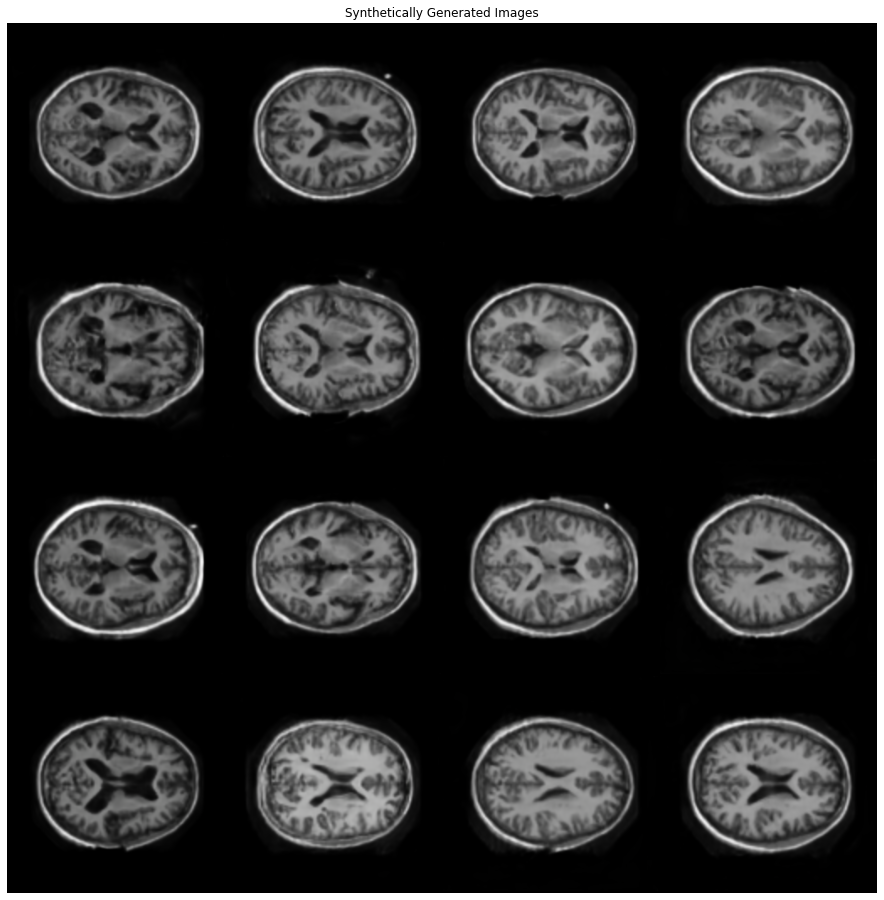
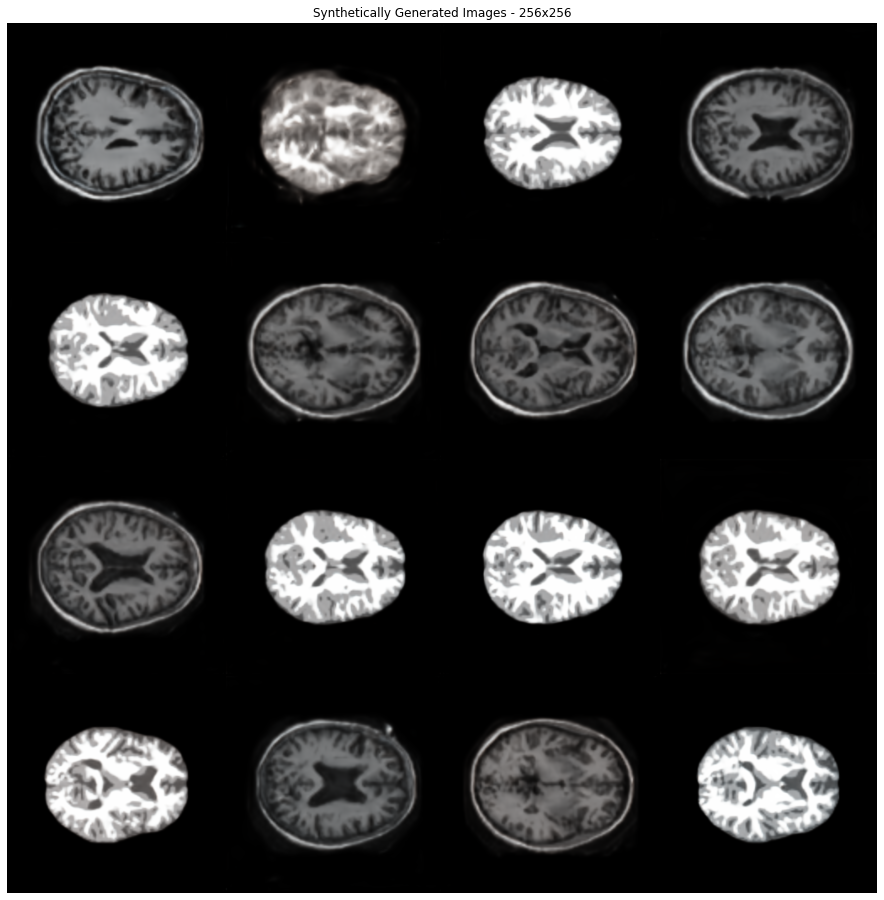
Added experiment for using StyleGAN to supersize images to 512x512. Retrained on full OASIS data to include segmentations (previously was just on the images)

diff --git a/recognition/StyleGAN_OASIS/predict.py b/recognition/StyleGAN_OASIS/predict.py
@@ -14,6 +14,7 @@ import numpy as np
 import torch
 import torchvision.utils as vutils
 from modules import Generator, AlphaScheduler
+from dataset import createDataLoader
 
 '''
 Plot the training losses for both the generator and discriminator models
@@ -29,44 +30,47 @@ def plot_losses(loss_file):
     losses = np.loadtxt(loss_file)
 
     plt.plot(losses[:,4], label="Total Discriminator Loss")    
-    plt.plot(losses[:,3], label="Total Discriminator Loss")
-    plt.plot(losses[:,0], label="Weighted Gradient Penalty")
-    plt.plot(losses[:,1], label="Wasserstein Distance")
-    plt.plot(losses[:,2], label="Gradient Clipping")
-
+    plt.plot(losses[:,3], label="Total Generator Loss")
     plt.xlabel("Batch Iteration")
     plt.ylabel("Loss")
     plt.legend()
     plt.title("GAN Losses of Generator and Discriminiator")
-    
-"""
-TODO: x
-"""
-def plot_generation(gen, n):
-    gen.eval()
-    z = torch.randn(n, gen.z_size)
-    gen_images = gen(z)
-    plt.figure(figsize=(20,20))
-    plt.axis("off")
-    plt.imshow(np.transpose(vutils.make_grid(gen_images[:n], padding=2, normalize=True).cpu(),(1,2,0)))
-    plt.title(f"Depth: {gen.alphaSched.depth}")
     plt.show()
     
+    plt.plot(losses[:,0], label="Weighted Gradient Penalty")
+    plt.plot(losses[:,1], label="Wasserstein Distance")
+    plt.plot(losses[:,2], label="Gradient Clipping")   
+    plt.xlabel("Batch Iteration")
+    plt.ylabel("Loss")
+    plt.legend()
+    plt.title("Decomposition of GAN Losses of Discriminator")
+"""
+Plot n images from synthetically generated images 
+    generator       A training generator class with weights preloaded
+    n               Number of images to dispay
+"""
+def plot_synthetic(generator, n, subtitle):
+    generator.eval()
+    z = torch.randn(n, 256)
+    images = generator(z)
+    plt.figure(figsize=(16,16))
+    plt.axis("off")
+    plt.imshow(np.transpose(vutils.make_grid(images[:n], nrow=int(np.sqrt(n)), padding=2, normalize=True).cpu(),(1,2,0)))
+    plt.title("Synthetically Generated Images - " + subtitle)
+    plt.show()
     
 
-def run():
-    z_size = 256
-    w_size = 256
-    rgb_ch = 3
-    channels = [512, 512,256,128,64,32,16,4]
-    alphaSched = AlphaScheduler([1], [1], 1)
-    alphaSched.depth=6
-    generator = Generator(z_size, w_size, channels, rgb_ch, alphaSched, is_progressive=False)
-    generator.load_state_dict(torch.load("C:\\Temp\\stylegan_depth_6.pth"))
-    plot_generation(generator, 64, )
+"""
+Plot n real images 
+    dataloader      A dataloader with a batch size of at least n
+    n               Number of images to dispay
+"""
+def plot_real(dataloader, n):
+    images = next(iter(dataloader))[0]
+    plt.figure(figsize=(16,16))
+    plt.axis("off")
+    plt.imshow(np.transpose(vutils.make_grid(images[:n], nrow=int(np.sqrt(n)), padding=2, normalize=True).cpu(),(1,2,0)))
+    plt.title("Real Images - 256x256")
+    plt.show()   
     
-    plot_losses(r"C:\Temp\losses_generator.csv", r"C:\Temp\losses_discriminator.csv")
 
-
-
-run()

diff --git a/recognition/StyleGAN_OASIS/test_driver_predict.py b/recognition/StyleGAN_OASIS/test_driver_predict.py
@@ -23,18 +23,24 @@ cfg = {'batch_sizes':[256,128,128,64,16,8,8], 'channels':[512, 512,256,128,64,32
         , 'fade_epochs': np.array([30, 30, 30, 30, 30, 30, 30, 30])
         , 'image_folder': r'C:\Temp\keras_png_slices_data\keras_png_slices_data'
         , 'generator_model_file': 'C:\Temp\stylegan_depth_{0}.pth'
-        , 'losses_file': 'losses.csv'
+        , 'losses_file': 'C:\Temp\losses.csv'
         , 'lr':0.001, 'mapping_lr':1e-5,'lambda':10, 'beta1': 0.0, 'beta2': 0.999, 'z_size':256, 'w_size':256, 'img_size': 256}
     
 
 # The AlphaScheduler is linked to the Generator, so configure, set to depth 6 (256x256) and load the saved model
-alphaSched = AlphaScheduler(cfg['fade_epochs'], cfg['batch_sizes'], 1)
+alphaSched = AlphaScheduler(cfg['fade_epochs'], cfg['batch_sizes'], 1e10)
 alphaSched.depth=6
 generator = Generator(cfg['z_size'], cfg['w_size'], cfg['channels'], cfg['rgb_ch'], alphaSched)
 generator.load_state_dict(torch.load(cfg['generator_model_file'].format(alphaSched.depth)))
 
-# Plot the generated synthetic images
-plot_synthetic(generator, n=16)
+# Plot the generated synthetic images at input size of 256x256
+plot_synthetic(generator, n=16, subtitle='256x256')
+
+alphaSched.depth=7
+generator.load_state_dict(torch.load(cfg['generator_model_file'].format(alphaSched.depth)))
+
+# Plot the generated synthetic images at super size of 512x512
+plot_synthetic(generator, n=4, subtitle='512x512')
 
 # Load and plot some real images
 dataloader = createDataLoader(cfg['image_folder'], 256, 256)

diff --git a/recognition/StyleGAN_OASIS/train.py b/recognition/StyleGAN_OASIS/train.py
@@ -141,7 +141,7 @@ Train a styleGAN on the OASIS brain dataset using a predefined configuration
 """
 def train_stylegan_oasis(is_rangpur=True):
     cfg_win = {'batch_sizes':[256,128,128,64,16,8,8], 'channels':[512, 512,256,128,64,32,16,8,4], 'rgb_ch':3
-            , 'fade_epochs': np.array([30, 30, 30, 30, 30, 30, 30, 30])
+            , 'fade_epochs': np.array([2, 2, 2, 2, 2, 2, 2, 2])
             , 'image_folder': r'C:\Temp\keras_png_slices_data\keras_png_slices_data'
             , 'generator_model_file': 'C:\Temp\stylegan_depth_{0}.pth'
             , 'losses_file': 'losses.csv'
@@ -149,8 +149,8 @@ def train_stylegan_oasis(is_rangpur=True):
     
     cfg_rangpur = {'batch_sizes':[256,128,128,64,16,8,8], 'channels':[512, 512,256,128,64,32,16,8,4], 'rgb_ch':3
             , 'fade_epochs': np.array([30, 30, 30, 30, 30, 30, 30, 30])
-            , 'image_folder': 'data/keras_png_slices_data'
-            , 'generator_model_file': 'C:\Temp\stylegan_depth_{0}.pth'
+            , 'image_folder': '/home/groups/comp3710/OASIS'
+            , 'generator_model_file': 'stylegan_depth_{0}.pth'
             , 'losses_file': 'losses.csv'
             , 'lr':0.001, 'mapping_lr':1e-5, 'lambda':10, 'beta1': 0.0, 'beta2': 0.999, 'z_size':256, 'w_size':256, 'img_size': 256}
 

diff --git a/recognition/StyleGAN_OASIS/test_driver_train.py b/recognition/StyleGAN_OASIS/test_driver_train.py
@@ -1,4 +1,4 @@
-    # -*- coding: utf-8 -*-
+# -*- coding: utf-8 -*
 """
 File: test_driver_train.py
 

diff --git a/recognition/StyleGAN_OASIS/README.md b/recognition/StyleGAN_OASIS/README.md
@@ -1,11 +1,11 @@
 # StyleGAN for the OASIS Brain data set
 
-Pattern recognition using a PyTorch style generative adverserial network (GAN) that is part of the COMP3710 repository. This particular implementation looks to create a generative model of the OASIS brain dataset using a variant of StyleGAN that has a "reasonably clear image".
+Pattern recognition using a PyTorch style generative adverserial network (GAN) that is part of the COMP3710 repository. This particular implementation looks to create a generative model of the OASIS brain dataset using a variant of StyleGAN that has a "reasonably clear image". A further experiment was performed to observe the behavour of StyleGAN generating supersized images.
 
 ## Motivation of synthesis with StyleGAN
 
 A StyleGAN is used for synthesis. By learning the probability distribution to some underlying data (images in this case), it is possible to synthesis new images following the learnt distribution. There are a number of motivating reasons why a StyleGAN would be used:
-- **Image synthesis** As mentioned, images can be generated from the learnt underlying distribution for artistic and entertainment purposes
+- **Image synthesis** As mentioned, images can be generated from the learnt underlying distribution, for artistic and entertainment purposes
 - **Augmentation** When limited data are available for training, data augmentation techniques expand the available training data through image variations such as rotation, shear, and colour perturbations. StyleGAN permits a richer form of augmentation by generating brand new variations rather than limited transforms of existing data
 - **Content creation** Synthesis can be used to generate new content for media, such as gaming, social media, or even movies (background generation for example)
 - **Annonymity** As a result of the synthesis, new samples produced are different from the training data. This permits datasets to be generated that hide the identity of the training data, such as annonymity through face synthesis
@@ -65,13 +65,16 @@ Some example inputs for training the StyleGAN from the OASIS brain dataset are:
 A synthesed image is created by generating a random input z of shape (batch size, latent size). Some examples of outputs from the Generator are:
 ![Examples of real OASIS brain images](figures/fake_images_sample.png)
 
+Purely out of interest, the StyleGAN was also used to supersize the synthesized layers to 512x512, beyond the original resolution of 256x256.
+![Examples of real OASIS brain images](figures/fake_images_sample_supersized.png)
+
 ## Reproducibility of Results
 
-Each Progressive GAN layer was run for 30 epochs. Over the six layers required to upsample to 256x256, the total training epochs were 180. On the Rangpur HPC, this typically takes about 3 hours. The generation of synthetic images is fairly stable. The image results publishing here are quite typically of the output after various training runs.
+Each Progressive GAN layer was run for 30 epochs. Over the six layers required to upsample from 4x4 to 256x256, and then finishing at 512x512 (supersized), the total training epochs were 210. On the Rangpur HPC, this typically takes about 6 hours. The generation of synthetic images is fairly stable. The image results published here are quite typically of the output after various training runs.
 
 ## Preprocessing
 
-The OASIS training dataset was used, which has 10,000 RGB images of size 256x256. Each synthesis layer requires training data for a particular size. To acheive this, the preprocessing included downsampling to the required size for each layer's training. Preprocessing also included the usual normalisation across the RGB channels.
+The OASIS dataset was used, which has 22,000 RGB images of size 256x256 of both images and segmentations. Each synthesis layer requires training data for a particular size. To acheive this, the preprocessing included downsampling to the required size for each layer's training. Preprocessing also included the usual normalisation across the RGB channels. For the supersized experiment, the input images were scaled to 512x512.
 
 
 ## Versioning and Dependencies
